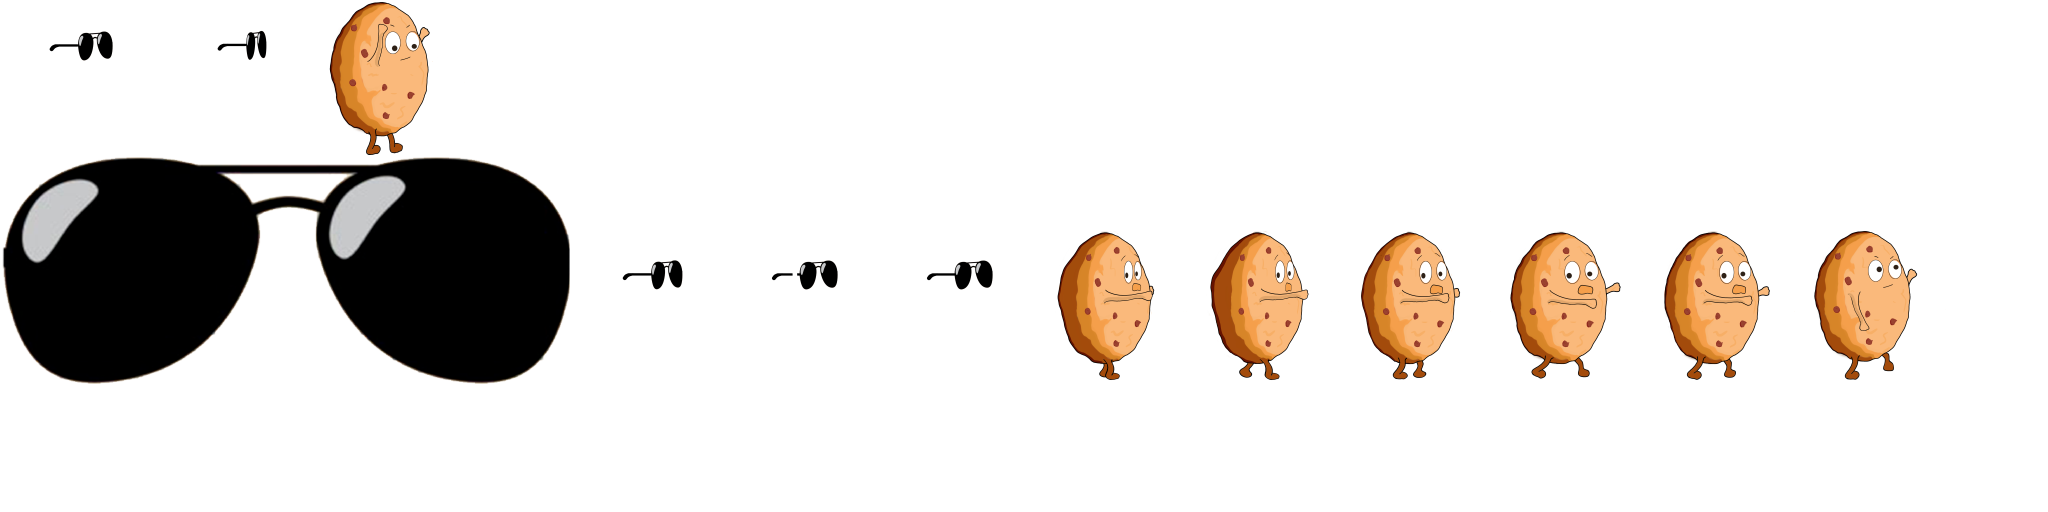
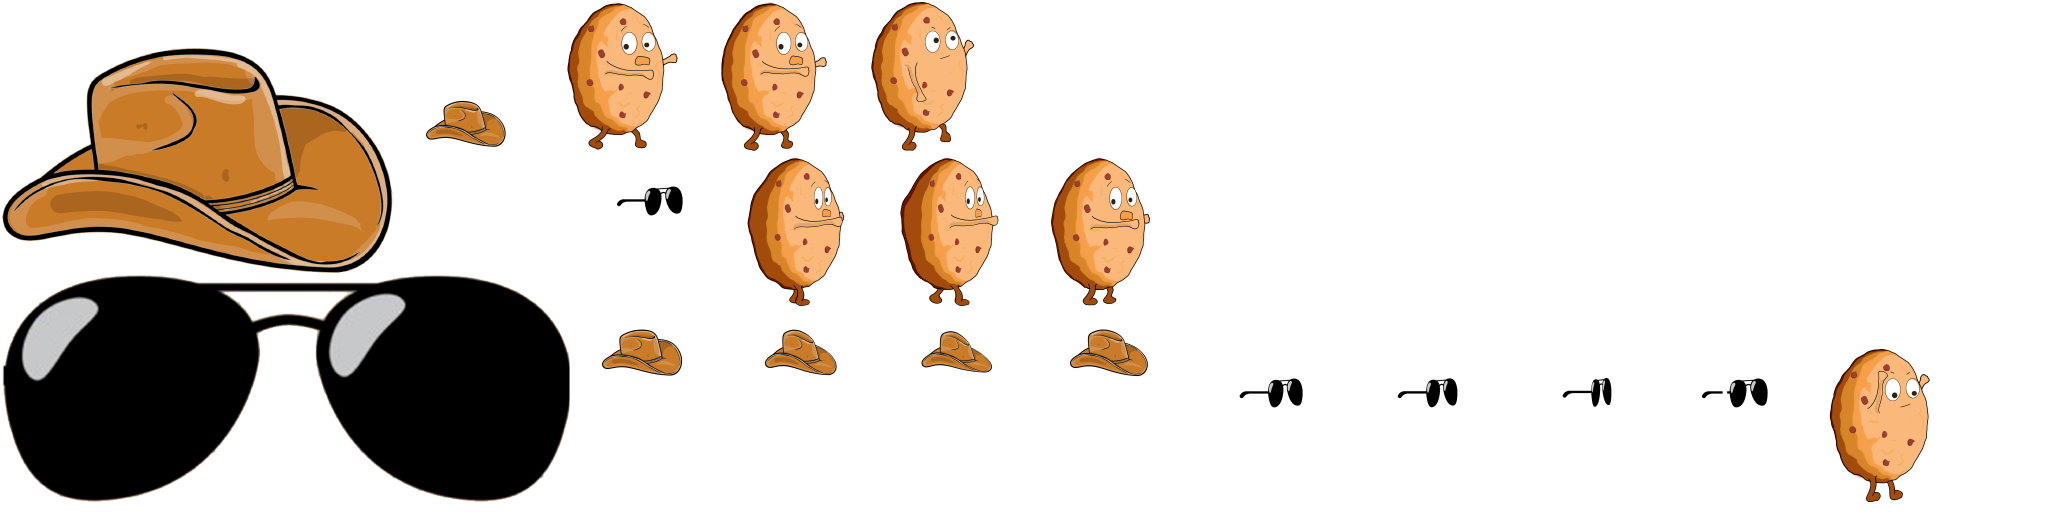
(feature) add hat for cookie

diff --git a/core/src/com/mygdx/game/actors/game/cookie/CookieItem.kt b/core/src/com/mygdx/game/actors/game/cookie/CookieItem.kt
@@ -1,0 +1,93 @@
+package com.mygdx.game.actors.game.cookie
+
+import com.badlogic.gdx.assets.AssetManager
+import com.badlogic.gdx.graphics.Color
+import com.badlogic.gdx.graphics.g2d.Animation
+import com.badlogic.gdx.graphics.g2d.Batch
+import com.badlogic.gdx.math.Interpolation
+import com.badlogic.gdx.scenes.scene2d.actions.Actions
+import com.mygdx.game.Config
+import com.mygdx.game.api.*
+import com.mygdx.game.data.Descriptors
+
+open class CookieItem(manager: AssetManager, val cookie: Cookie, itemName: String) : GameActor(), Animated {
+
+    private val texture = manager.get(Descriptors.cookie)
+    private var jumpUpRegion = texture.findRegion("jump_up_$itemName")
+    private var jumpDownRegion = texture.findRegion("jump_down_$itemName")
+    private var runRegions = texture.findRegions("run_$itemName")
+    private var itemRegion = texture.findRegion(itemName)
+    private val runAnimation = Animation(0.1f, runRegions, Animation.PlayMode.LOOP_PINGPONG)
+    private var currentFrame = runAnimation.keyFrames.first()
+    private var isInvolvedInGame = false
+    private var isGameOver = false
+
+    init {
+        width = itemRegion.originalWidth.toFloat()
+        height = itemRegion.originalHeight.toFloat()
+        x = (Config.WIDTH_GAME - width) / 2
+        y = Config.HEIGHT_GAME - height - 50
+        scaleX = 0.1f
+        scaleY = 0.1f
+        color.a = 0f
+    }
+
+    override fun draw(batch: Batch?, parentAlpha: Float) {
+        batch!!.color = Color.WHITE
+        currentFrame = when {
+            cookie.isRun() -> runAnimation.getKeyFrame(cookie.runTime)
+            cookie.isJump() -> jumpUpRegion
+            cookie.isFalling() -> jumpDownRegion
+            cookie.isVisible.not() -> jumpUpRegion
+            else -> null
+        }
+
+        if (isInvolvedInGame.not()) {
+            batch.setColor(color.r, color.g, color.b, color.a)
+            batch.draw(itemRegion, x, y, 0f, 0f, width, height, scaleX, scaleY, rotation)
+        }
+
+        batch.setColor(color.r, color.g, color.b, 1f)
+        if (isInvolvedInGame) {
+            val x = if (isGameOver) x else cookie.x
+            val y = if (isGameOver) y else cookie.y
+            batch.draw(currentFrame, x, y, cookie.width, cookie.height)
+        }
+    }
+
+    override fun animate(type: AnimationType, runAfter: Runnable) {
+        val action = when (type) {
+            AnimationType.SHOW_ON_SCENE -> {
+                Actions.sequence(
+                        Actions.parallel(
+                                Actions.scaleTo(1f, 1f, 0.6f, Interpolation.smooth),
+                                Actions.alpha(1f, 0.6f)
+                        ),
+                        Actions.delay(0.6f),
+                        Actions.parallel(
+                                Actions.scaleTo(0f, 0f, 0.3f),
+                                Actions.moveTo(x, 0f, 0.6f),
+                                Actions.alpha(0f, 0.3f)
+                        ),
+                        Actions.run { isInvolvedInGame = true }
+                )
+            }
+            AnimationType.HIDE_FROM_SCENE -> {
+                if (isInvolvedInGame.not()) return
+                Actions.sequence(
+                        Actions.run {
+                            isGameOver = true
+                            y = cookie.y + (cookie.width / 2)
+                            x = cookie.x + (cookie.height / 2)
+                        },
+                        Actions.moveTo(x, -200f, 0.3f, Interpolation.exp10)
+                )
+
+            }
+            else -> null
+        }
+        val run = Actions.run(runAfter)
+        val sequence = Actions.sequence(action, run)
+        addAction(sequence)
+    }
+}

diff --git a/core/src/com/mygdx/game/world/GameWorld.kt b/core/src/com/mygdx/game/world/GameWorld.kt
@@ -14,6 +14,7 @@ import com.mygdx.game.managers.ScreenManager.Screens.*
 import com.mygdx.game.actors.game.*
 import com.mygdx.game.actors.game.cookie.Cookie
 import com.mygdx.game.actors.game.cookie.CookieShadow
+import com.mygdx.game.actors.game.cookie.Hat
 import com.mygdx.game.actors.game.cookie.Sunglasses
 import com.mygdx.game.api.AnimationType
 import com.mygdx.game.api.Callback
@@ -34,6 +35,7 @@ class GameWorld(manager: AssetManager) {
     private val flower = FlowerInPot(manager, window)
     private val cookie = Cookie(manager, table.worktopY, Config.WIDTH_GAME / 2)
     private val sunglasses = Sunglasses(manager, cookie)
+    private val hat = Hat(manager, cookie)
     private val cookieShadow = CookieShadow(manager, cookie)
     private val shadow = Shadow(manager)
     private val cupboard = Cupboard(manager, window)
@@ -49,7 +51,7 @@ class GameWorld(manager: AssetManager) {
     init {
         actors.addAll(background, cupboard, shadow, city, window, flower, table)
         actors.addAll(items.getActors())
-        actors.addAll(cookieShadow, cookie, sunglasses, arm, score, sceneShadow)
+        actors.addAll(cookieShadow, cookie, sunglasses, hat, arm, score, sceneShadow)
 
         addActorsToStage()
         stopMoveAllActors()
@@ -96,9 +98,10 @@ class GameWorld(manager: AssetManager) {
         actor.callbackGoThrough = object : Callback {
             override fun call() {
                 score.scoreNum++
-
                 if(score.scoreNum == 1){
                     sunglasses.animate(AnimationType.SHOW_ON_SCENE)
+                } else if (score.scoreNum == 3){
+                    hat.animate(AnimationType.SHOW_ON_SCENE)
                 }
             }
         }
@@ -138,6 +141,7 @@ class GameWorld(manager: AssetManager) {
             arm.actions.clear()
             arm.animate(AnimationType.COOKIE_CATCH, Runnable {
                 sunglasses.animate(AnimationType.HIDE_FROM_SCENE)
+                hat.animate(AnimationType.HIDE_FROM_SCENE)
                 arm.animate(AnimationType.HIDE_FROM_SCENE, Runnable {
                     ScreenManager.setScreen(GAME_OVER, Pair(SCORE, score.scoreNum))
                 })

diff --git a/core/src/com/mygdx/game/data/Assets.kt b/core/src/com/mygdx/game/data/Assets.kt
@@ -43,6 +43,10 @@ class Assets {
             const val RUN_SUNGLASSES = "run_sunglasses"
             const val JUMP_UP_SUNGLASSES = "jump_up_sunglasses"
             const val JUMP_DOWN_SUNGLASSES = "jump_down_sunglasses"
+            const val HAT = "hat"
+            const val RUN_HAT = "run_hat"
+            const val JUMP_UP_HAT = "jump_up_hat"
+            const val JUMP_DOWN_HAT = "jump_down_hat"
         }
     }
 

diff --git a/core/src/com/mygdx/game/actors/game/cookie/Hat.kt b/core/src/com/mygdx/game/actors/game/cookie/Hat.kt
@@ -3,5 +3,5 @@ package com.mygdx.game.actors.game.cookie
 import com.badlogic.gdx.assets.AssetManager
 import com.mygdx.game.data.Assets
 
-class Sunglasses(manager: AssetManager, cookie: Cookie)
-    : CookieItem(manager, cookie, Assets.CookieAtlas.SUNGLASSES)
+class Hat(manager: AssetManager, cookie: Cookie)
+    : CookieItem(manager, cookie, Assets.CookieAtlas.HAT)
